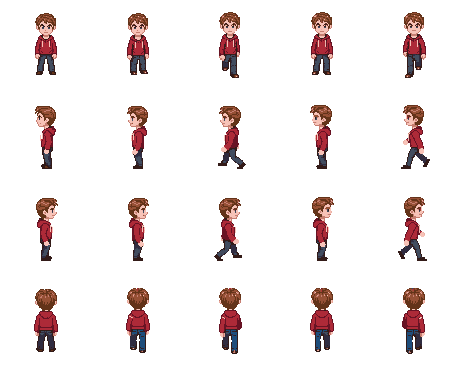
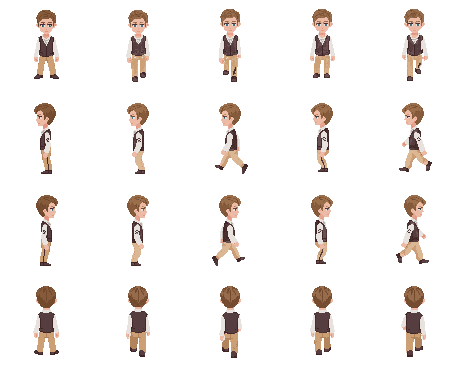
Гра: Діма за фото власника (PixelLab)
Власник: «Ось Діма, перероби його персонажа в піксель лаб схожим на фото».

- Новий персонаж PixelLab «Діма HD (фото)»: русяве волосся набік,
  сіро-блакитні очі, біла сорочка з комірцем і закоченими рукавами,
  коричнева в'язана безрукавка, бежеві штани, ланцюжок, тату. Фото
  описано словами, саме фото в PixelLab не відправлено.
- Хода в трьох напрямках, «ліворуч» — дзеркало; аркуш dima.png.
- DIMA у people.ts — нові кольори без худі; аркуш упізнає Діму за
  волоссям, безрукавкою й штанями.

ADR-0239 (поправка 2026-11-01), MODULE_STATUS «Гра».

Claude-Session: https://claude.ai/code/session_01ESA7YasmJgt7vZNVKYPdPS

diff --git a/src/features/game/life/render/peopleHd.ts b/src/features/game/life/render/peopleHd.ts
@@ -132,8 +132,11 @@ const SHEETS: HdSheet[] = [
   { url: lenaAdultUrl, fall: { url: lenaAdultFallUrl }, poses: { url: lenaAdultPosesUrl, hands: { chest: { x: 16.1, y: 30 }, low: { x: 13.1, y: 17 }, high: { x: 13, y: 37 } } }, front: { up: 19, l: -10, r: 9 }, cell: 92, frames: 4, footX: 46, footY: 76, outfit: { base: LENA_ADULT, garments: ADULT_DRESS }, match: (l) => isLenaAdult(l) },
   // Персонаж PixelLab «Мама Лєни HD» (0a699035-…).
   { url: momUrl, cell: 92, frames: 4, footX: 46, footY: 78, match: (l) => l.hairStyle === MOM.hairStyle && l.top === MOM.top && l.accent === MOM.accent },
-  // Персонаж PixelLab «Діма HD» (ff0178ab-…), власник 2026-10-06: «Діму давай далі».
-  { url: dimaUrl, cell: 92, frames: 4, footX: 46, footY: 75, match: (l) => l.hairStyle === DIMA.hairStyle && l.top === DIMA.top && !!l.hoodie },
+  // Персонаж PixelLab «Діма HD (фото)» (cd7ead7c-…), власник 2026-11-01: «Ось
+  // Діма, перероби його персонажа в піксель лаб схожим на фото». Фото описано
+  // словами, саме фото в PixelLab не відправлено. Упізнається за волоссям,
+  // безрукавкою й штанями — таких нема ні в кого з мешканців чи перехожих.
+  { url: dimaUrl, cell: 92, frames: 4, footX: 46.5, footY: 79, match: (l) => l.hair === DIMA.hair && l.top === DIMA.top && l.bottom === DIMA.bottom },
   // Оля — подружка Лєни в Жилинцях (власник 2026-10-31: «Починай з Олі»):
   // мала до 6 тижня, підліток до 11-го, дорослою в грі не буває. Персонажі
   // PixelLab «Оля мала HD (2)» (f95cea47-…) і «Оля підліток HD (50)»

diff --git a/src/features/game/life/render/people.ts b/src/features/game/life/render/people.ts
@@ -53,7 +53,8 @@ const WHITE = '#ffffff';
 export const LENA_KID: Look = { skin: SKIN, hair: '#9c7a45', hairStyle: 'pigtails', top: '#f2a5c0', bottom: '#f2a5c0', dress: true, shoes: '#c2494f', eyes: '#5a3a26', kid: true, bow: '#ff5d8f' };
 export const LENA_TEEN: Look = { skin: SKIN, hair: '#9c7a45', hairStyle: 'ponytail', top: '#f4f4f7', bottom: '#3d4a6e', shoes: '#3a2f28', eyes: '#5a3a26', accent: '#5aa7e0' };
 export const LENA_ADULT: Look = { skin: SKIN, hair: '#a5804a', hairStyle: 'long', top: '#5aa7e0', bottom: '#f4f4f7', dress: true, shoes: '#f4f4f7', eyes: '#5a3a26' };
-export const DIMA: Look = { skin: SKIN, hair: '#8f6d3e', hairStyle: 'spiky', top: '#c0503a', bottom: '#3a4560', shoes: '#3a2f28', eyes: '#4a90d9', hoodie: true };
+/** Діма — за фото власника (2026-11-01): русяве волосся набік, коричнева в'язана безрукавка поверх білої сорочки, бежеві штани. */
+export const DIMA: Look = { skin: SKIN, hair: '#865b3c', hairStyle: 'short', top: '#553d40', bottom: '#cca074', shoes: '#402324', eyes: '#6a8aa8', accent: '#e7e2dd' };
 export const MOM: Look = { skin: SKIN, hair: '#6e4a2a', hairStyle: 'bun', top: '#b8323a', bottom: '#3a3550', dress: true, shoes: '#3a2f28', eyes: '#3a2a22', accent: '#f6f1e6' };
 export const OLYA: Look = { skin: SKIN, hair: '#3a2b1a', hairStyle: 'bob', top: '#7fd9c4', bottom: '#3d5a8c', shoes: '#f4f4f7', eyes: '#3a2a22' };
 

diff --git a/docs/MODULE_STATUS.md b/docs/MODULE_STATUS.md
@@ -45,7 +45,7 @@
 | Вотчліст | `/media` | ✓ | — | — | 1 | Фаза 11. Свайп: вердикт заливає картку, підпис у центрі, фільтр жанрів із TMDB (ADR-0043); модалка деталей перебрана — тіло гортається окремо, відгук лишають рядком, а не 17-піксельним олівцем (ADR-0050) |
 | Кулінарія | `/culinary` | ✓ | — | — | 0 | Фаза 12. Модалка страви перебрана: назва інгредієнта на власному рядку, кнопки «прибрати» повернуті в рядок із кута сторінки (ADR-0050) |
 | Куди піти | `/whereto` | ✓ | — | — | 0 | Фаза 12. Вибір міста питає одне поле; область приїжджає з геокодера OSM (ADR-0050) |
-| Гра | `/game` | — | ✓ | — | 3 | **«Дєвочка в городі» (ADR-0239, раніше «Життя Лєни»):** симулятор життя — «тиждень = рік», садочок/школа/ВДПУ/робота за вибором, 7 міст із дорогами й детальною мапою Поділля, крамниці, альбом, історія з Дімою (ходить із Лєною лише на її прохання, приходить на дзвінок), робота онлайн, три свої справи, нерухомість, облаштування дому, стартова садиба в Жилинцях за планом власника (подвір'я за планом власника: туалет, хліви, курник із вигулом, січкарня, город, сад із літнім душем, квітники, криниця, літня кухня з прибудовою-входом, майстерня, погріб, хата з котельнею, кімнати хати за розмірами власника, літня кухня з глиняною піччю, куди можна зайти, погріб зі стелажем закруток і засіками за перегородками, мама, що за розкладом порається на городі, в саду, біля курей і в кухні, коргі Бася, яку можна погладити й нагодувати; уся гра лише в 32×32, без перемикача (власник 2026-10-31: «повністю відмовляємось від 16×16»), з людьми з PixelLab на мапі, у всіх міні-іграх і в портретах (Лєна в усіх трьох віках — підліток перемальований під малу й дорослу, з однаковими очима в кожному кадрі, мама, Діма, Оля мала й підліток — каре з рожевою заколкою, Бася, кури; куплений одяг перефарбовує аркуш — видно колір речі, не крій), а мешканці й перехожі поки 16-піксельні, вдвічі збільшені, до своїх аркушів (етап 2); перехожий більше не буває двійником Лєни; суцільна Г-подібна хата зі входом збоку: веранда, кухня, коридорчик, кімнати братів, мами й Лєни впритул; усередині — стіни між кімнатами, глиняна долівка в кухні, фарбована веранда з вішаком, лавою й відрами, скриня в мами, стіл у братів; город із ділянок різних культур, що живуть за порою року, і стріха з гребенем, кізлами й підрізаним звисом; двір довкола будівель: дрова й колода з сокирою біля котельні, будка Басі з мискою, білизна на мотузці в саду, тачка біля городу, глечики на тину, відро біля криниці; текстури подвір'я в 32×32 — латки тіні й сонця на траві, кущики трави й квіти купками, стежки з камінцями, паркан із волокнами й цвяхами, дошки стін зі стиками, черепиця з мохом і бляха з іржею, круглі яблука, клумби з камінцями; 32×32 і в самому селі Жилинці — паркан згори вниз стовпчиками з жердиною, вулиці з коліями й травою посередині, ставок із мілиною, брижами, лататтям, очеретом і льодом, цегла школи й сільмагу, плаский дах і маркіза, предмети майданчика й зупинки; маркери взаємодій — значки над дверима, садом, городом, майстернею, людьми й Басею, поруч яскраві, здалеку бліді, видні й уночі; кури й півень із PixelLab, що стоять, дзьобають, ходять біля свого місця й тікають від Лєни та Басі, замість кругляшків-пропів; зупинка в Жилинцях нижче майданчика, на узбіччі; жовте кільце, що сяє на землі там, де Лєна може щось зробити, замість світлої плями на всю зону; анімація падіння від Басі — Лєна падає навзнак, лежить секунду із зірочками й підводиться, кадрами PixelLab для всіх віків; доросла Лєна, що вже живе деінде, заходить до мами в хату в гості — табличка «Мамина хата», без ліжка, шафи й речей з нового житла; міні-ігри садиби: сад — яблука, сливи й груші падають у кошик (1, 2 і 3 ₴, до 15 за гру), город із мамою — урожай, кроти й бур'яни, курник як «Ну, погоди!» — 20 яєць за раунд, щоп'ятого швидше, Лєна з кошиком і кури з PixelLab, лоток на 20 яєць, рибалка — карась, окунь, короп; на телефоні сцени розкладено стоячи, Лєна й птахи вдвічі більші; Лєна в міні-іграх садиби — з її аркушів PixelLab: у саду обличчям до нас із кошиком у руках, у курнику профілем — кошик угорі на долонях чи внизу з долонь, на рибалці з вудкою; мама в городі — теж з PixelLab), знайомства з десятьма мешканцями, заняття в кожному місті; окрема сторінка `game.html`, лише пара 1 (ADR-0236); власна мова інтерфейсу (пергамент, «три чверті» як у Stardew), сейв у `localStorage` |
+| Гра | `/game` | — | ✓ | — | 3 | **«Дєвочка в городі» (ADR-0239, раніше «Життя Лєни»):** симулятор життя — «тиждень = рік», садочок/школа/ВДПУ/робота за вибором, 7 міст із дорогами й детальною мапою Поділля, крамниці, альбом, історія з Дімою (ходить із Лєною лише на її прохання, приходить на дзвінок), робота онлайн, три свої справи, нерухомість, облаштування дому, стартова садиба в Жилинцях за планом власника (подвір'я за планом власника: туалет, хліви, курник із вигулом, січкарня, город, сад із літнім душем, квітники, криниця, літня кухня з прибудовою-входом, майстерня, погріб, хата з котельнею, кімнати хати за розмірами власника, літня кухня з глиняною піччю, куди можна зайти, погріб зі стелажем закруток і засіками за перегородками, мама, що за розкладом порається на городі, в саду, біля курей і в кухні, коргі Бася, яку можна погладити й нагодувати; уся гра лише в 32×32, без перемикача (власник 2026-10-31: «повністю відмовляємось від 16×16»), з людьми з PixelLab на мапі, у всіх міні-іграх і в портретах (Лєна в усіх трьох віках — підліток перемальований під малу й дорослу, з однаковими очима в кожному кадрі, мама, Діма за фото власника — біла сорочка й коричнева безрукавка, Оля мала й підліток — каре з рожевою заколкою, Бася, кури; куплений одяг перефарбовує аркуш — видно колір речі, не крій), а мешканці й перехожі поки 16-піксельні, вдвічі збільшені, до своїх аркушів (етап 2); перехожий більше не буває двійником Лєни; суцільна Г-подібна хата зі входом збоку: веранда, кухня, коридорчик, кімнати братів, мами й Лєни впритул; усередині — стіни між кімнатами, глиняна долівка в кухні, фарбована веранда з вішаком, лавою й відрами, скриня в мами, стіл у братів; город із ділянок різних культур, що живуть за порою року, і стріха з гребенем, кізлами й підрізаним звисом; двір довкола будівель: дрова й колода з сокирою біля котельні, будка Басі з мискою, білизна на мотузці в саду, тачка біля городу, глечики на тину, відро біля криниці; текстури подвір'я в 32×32 — латки тіні й сонця на траві, кущики трави й квіти купками, стежки з камінцями, паркан із волокнами й цвяхами, дошки стін зі стиками, черепиця з мохом і бляха з іржею, круглі яблука, клумби з камінцями; 32×32 і в самому селі Жилинці — паркан згори вниз стовпчиками з жердиною, вулиці з коліями й травою посередині, ставок із мілиною, брижами, лататтям, очеретом і льодом, цегла школи й сільмагу, плаский дах і маркіза, предмети майданчика й зупинки; маркери взаємодій — значки над дверима, садом, городом, майстернею, людьми й Басею, поруч яскраві, здалеку бліді, видні й уночі; кури й півень із PixelLab, що стоять, дзьобають, ходять біля свого місця й тікають від Лєни та Басі, замість кругляшків-пропів; зупинка в Жилинцях нижче майданчика, на узбіччі; жовте кільце, що сяє на землі там, де Лєна може щось зробити, замість світлої плями на всю зону; анімація падіння від Басі — Лєна падає навзнак, лежить секунду із зірочками й підводиться, кадрами PixelLab для всіх віків; доросла Лєна, що вже живе деінде, заходить до мами в хату в гості — табличка «Мамина хата», без ліжка, шафи й речей з нового житла; міні-ігри садиби: сад — яблука, сливи й груші падають у кошик (1, 2 і 3 ₴, до 15 за гру), город із мамою — урожай, кроти й бур'яни, курник як «Ну, погоди!» — 20 яєць за раунд, щоп'ятого швидше, Лєна з кошиком і кури з PixelLab, лоток на 20 яєць, рибалка — карась, окунь, короп; на телефоні сцени розкладено стоячи, Лєна й птахи вдвічі більші; Лєна в міні-іграх садиби — з її аркушів PixelLab: у саду обличчям до нас із кошиком у руках, у курнику профілем — кошик угорі на долонях чи внизу з долонь, на рибалці з вудкою; мама в городі — теж з PixelLab), знайомства з десятьма мешканцями, заняття в кожному місті; окрема сторінка `game.html`, лише пара 1 (ADR-0236); власна мова інтерфейсу (пергамент, «три чверті» як у Stardew), сейв у `localStorage` |
 
 «Налаштувань» у таблиці немає: це аркуш поверх сторінки, а не маршрут.
 Полароїд, що теж був аркушем, прибрано (ADR-0248). Налаштування
